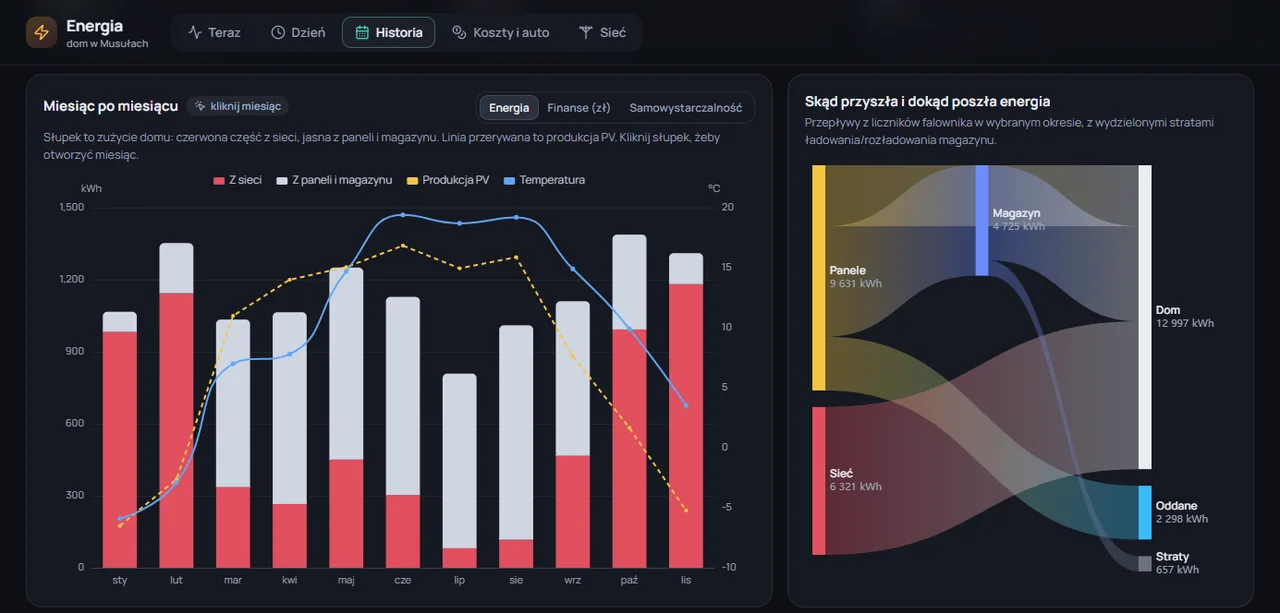
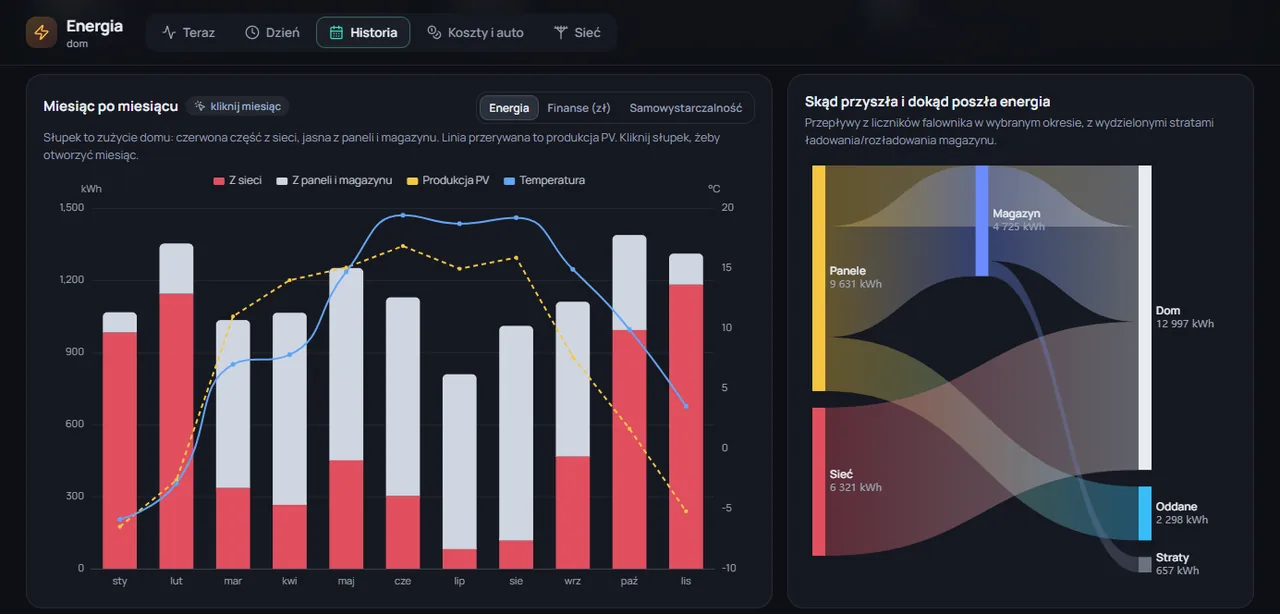
Projekty: galeria zrzutow Panelu energii w oknie podgladu
Kafelek panelu byl jedynym nieklikalnym na /projekty/. Teraz miniatura
i link "Zobacz zrzuty panelu" otwieraja okno (natywny <dialog>) z czterema
zrzutami: Teraz, Dzien, Historia i Koszty. Strzalki, klawisze, przesuwanie
palcem (nie przy powiekszeniu), zamykanie Esc i klikiem w tlo, powrot fokusu,
link do pelnego rozmiaru. Bez JS link prowadzi do pelnego zrzutu.
Na zrzutach nazwa miejscowosci zastapiona slowem "dom".

Changed region(s): [[0.125, 0.031, 0.5, 0.062], [0.0625, 0.062, 0.125, 0.093]]

diff --git a/src/assets/js/site.js b/src/assets/js/site.js
@@ -287,7 +287,114 @@
     });
   }
 
-  [initMenu, initPasekPostepu, initFiltrBloga, initEmail, initDonut, initFormularze, initSzukaj]
+  /* ---------- Galeria zrzutów w oknie (data-galeria na /projekty/) ----------
+     Kontener [data-galeria="Nazwa"] zawiera linki <a href=pełny_zrzut data-podpis data-szer data-wys>;
+     pierwszy jest widoczną miniaturą, reszta ukryta. [data-galeria-otworz="Nazwa"] otwiera od pierwszego.
+     Bez JS link prowadzi po prostu do pełnego zrzutu. */
+  function initGaleria() {
+    var galerie = document.querySelectorAll("[data-galeria]");
+    if (!galerie.length || typeof HTMLDialogElement !== "function") return;
+
+    var dlg = document.createElement("dialog");
+    dlg.className = "galeria-modal";
+    dlg.innerHTML =
+      '<div class="galeria-modal__wnetrze">' +
+      '<img class="galeria-modal__obraz" alt="">' +
+      '<p class="galeria-modal__podpis"></p>' +
+      '<p class="galeria-modal__licznik" aria-live="polite"></p>' +
+      '<button type="button" class="galeria-modal__btn galeria-modal__zamknij" aria-label="Zamknij podgląd">&times;</button>' +
+      '<button type="button" class="galeria-modal__btn galeria-modal__poprz" aria-label="Poprzedni zrzut">&lsaquo;</button>' +
+      '<button type="button" class="galeria-modal__btn galeria-modal__nast" aria-label="Następny zrzut">&rsaquo;</button>' +
+      "</div>";
+    document.body.appendChild(dlg);
+    var obraz = dlg.querySelector(".galeria-modal__obraz");
+    var podpis = dlg.querySelector(".galeria-modal__podpis");
+    var licznik = dlg.querySelector(".galeria-modal__licznik");
+    var zamknij = dlg.querySelector(".galeria-modal__zamknij");
+    var poprz = dlg.querySelector(".galeria-modal__poprz");
+    var nast = dlg.querySelector(".galeria-modal__nast");
+    var elementy = [], nr = 0, nazwa = "", powrot = null;
+
+    function pokaz(i) {
+      nr = (i + elementy.length) % elementy.length;
+      var a = elementy[nr];
+      if (a.dataset.szer) { obraz.width = +a.dataset.szer; obraz.height = +a.dataset.wys; }
+      obraz.src = a.getAttribute("href");
+      obraz.alt = a.dataset.podpis || "";
+      podpis.textContent = (a.dataset.podpis || "") + " ";
+      var pelny = document.createElement("a");
+      pelny.href = a.getAttribute("href");
+      pelny.target = "_blank";
+      pelny.rel = "noopener";
+      pelny.textContent = "Pełny rozmiar";
+      podpis.appendChild(pelny);
+      licznik.textContent = nazwa + ": zrzut " + (nr + 1) + " z " + elementy.length;
+      poprz.hidden = nast.hidden = elementy.length < 2;
+    }
+
+    function otworz(kontener, i) {
+      elementy = Array.prototype.slice.call(kontener.querySelectorAll("a[href]"));
+      if (!elementy.length) return;
+      nazwa = kontener.getAttribute("data-galeria") || "Zrzuty";
+      dlg.setAttribute("aria-label", nazwa + " - zrzuty ekranu");
+      powrot = document.activeElement;
+      pokaz(i > 0 ? i : 0);
+      document.documentElement.style.overflow = "hidden";
+      dlg.showModal();
+      (nast.hidden ? zamknij : nast).focus();
+    }
+
+    dlg.addEventListener("close", function () {
+      document.documentElement.style.overflow = "";
+      obraz.removeAttribute("src");
+      if (powrot && powrot.focus) powrot.focus({ preventScroll: true });
+    });
+    zamknij.addEventListener("click", function () { dlg.close(); });
+    poprz.addEventListener("click", function () { pokaz(nr - 1); });
+    nast.addEventListener("click", function () { pokaz(nr + 1); });
+    // klik w tło (poza obrazem, podpisem i przyciskami) zamyka
+    dlg.addEventListener("click", function (e) {
+      if (e.target === dlg || e.target.classList.contains("galeria-modal__wnetrze")) dlg.close();
+    });
+    dlg.addEventListener("keydown", function (e) {
+      if (e.key === "ArrowLeft") { e.preventDefault(); pokaz(nr - 1); }
+      else if (e.key === "ArrowRight") { e.preventDefault(); pokaz(nr + 1); }
+    });
+    // przesunięcie palcem; nie przy powiększeniu dwoma palcami
+    var startX = null, startY = 0;
+    dlg.addEventListener("touchstart", function (e) {
+      var zoom = window.visualViewport ? window.visualViewport.scale : 1;
+      startX = e.touches.length === 1 && zoom <= 1.05 ? e.touches[0].clientX : null;
+      startY = e.touches[0].clientY;
+    }, { passive: true });
+    dlg.addEventListener("touchend", function (e) {
+      if (startX === null || elementy.length < 2) return;
+      var dx = e.changedTouches[0].clientX - startX, dy = e.changedTouches[0].clientY - startY;
+      if (Math.abs(dx) > 50 && Math.abs(dx) > Math.abs(dy) * 1.5) pokaz(nr + (dx < 0 ? 1 : -1));
+      startX = null;
+    }, { passive: true });
+
+    function zModyfikatorem(e) { return e.ctrlKey || e.metaKey || e.shiftKey || e.button > 0; }
+    Array.prototype.forEach.call(galerie, function (kontener) {
+      kontener.addEventListener("click", function (e) {
+        var a = e.target.closest("a[href]");
+        if (!a || zModyfikatorem(e)) return;
+        e.preventDefault();
+        otworz(kontener, Array.prototype.indexOf.call(kontener.querySelectorAll("a[href]"), a));
+      });
+    });
+    Array.prototype.forEach.call(document.querySelectorAll("[data-galeria-otworz]"), function (link) {
+      link.addEventListener("click", function (e) {
+        var cel = link.getAttribute("data-galeria-otworz");
+        var kontener = Array.prototype.find.call(galerie, function (g) { return g.getAttribute("data-galeria") === cel; });
+        if (!kontener || zModyfikatorem(e)) return;
+        e.preventDefault();
+        otworz(kontener, 0);
+      });
+    });
+  }
+
+  [initMenu, initPasekPostepu, initFiltrBloga, initEmail, initDonut, initFormularze, initSzukaj, initGaleria]
     .forEach(function (init) {
       try { init(); } catch (err) {
         if (window.console && console.error) console.error("site.js: " + init.name, err);

diff --git a/src/assets/css/style.css b/src/assets/css/style.css
@@ -729,3 +729,28 @@ h1, h2, h3, h4 { font-family: var(--naglowki); text-wrap: pretty; }
   .stopka__wnetrze { padding-inline: 14px; }
   .stopka__linki { flex-wrap: wrap; gap: 8px 16px; }
 }
+
+/* ---------- Galeria zrzutów w oknie (projekty: Panel energii) ---------- */
+.projekt-foto--galeria { position: relative; cursor: zoom-in; }
+.projekt-foto__znaczek { position: absolute; right: 12px; bottom: 12px; padding: 5px 11px; border-radius: 999px; background: rgba(19, 26, 38, .78); color: #fff; font-size: 12.5px; font-weight: 600; pointer-events: none; }
+.galeria-modal { border: 0; padding: 0; margin: auto; background: rgba(8, 11, 17, .94); width: 100vw; height: 100dvh; max-width: 100vw; max-height: 100dvh; overscroll-behavior: contain; }
+.galeria-modal::backdrop { background: rgba(8, 11, 17, .6); }
+.galeria-modal__wnetrze { position: relative; height: 100%; display: flex; flex-direction: column; align-items: center; justify-content: center; gap: 12px; padding: max(56px, env(safe-area-inset-top)) clamp(12px, 6vw, 84px) max(20px, env(safe-area-inset-bottom)); }
+.galeria-modal__obraz { display: block; max-width: 100%; max-height: calc(100dvh - 170px); width: auto; height: auto; border-radius: 10px; box-shadow: 0 30px 80px rgba(0, 0, 0, .5); background: #0f1115; }
+.galeria-modal__podpis { color: #E6EAF2; font-size: 15px; line-height: 1.45; text-align: center; max-width: 760px; margin: 0; }
+.galeria-modal__podpis a { color: var(--akcent-jasny); white-space: nowrap; }
+.galeria-modal__licznik { color: #9AA6BC; font-size: 13px; margin: 0; }
+.galeria-modal__btn { position: absolute; width: 48px; height: 48px; border: 0; border-radius: 999px; background: rgba(255, 255, 255, .14); color: #fff; font-size: 26px; line-height: 1; cursor: pointer; display: grid; place-items: center; }
+.galeria-modal__btn:hover { background: rgba(255, 255, 255, .26); }
+.galeria-modal__btn:focus-visible { outline: 3px solid var(--akcent-jasny); outline-offset: 2px; }
+.galeria-modal__btn[hidden] { display: none; }
+.galeria-modal__zamknij { top: max(10px, env(safe-area-inset-top)); right: 12px; }
+.galeria-modal__poprz { left: 12px; top: 50%; transform: translateY(-50%); }
+.galeria-modal__nast { right: 12px; top: 50%; transform: translateY(-50%); }
+@media (max-width: 700px) {
+  .galeria-modal__wnetrze { padding-inline: 8px; padding-bottom: max(76px, env(safe-area-inset-bottom)); }
+  .galeria-modal__poprz, .galeria-modal__nast { top: auto; bottom: max(14px, env(safe-area-inset-bottom)); transform: none; }
+  .galeria-modal__poprz { left: calc(50% - 60px); }
+  .galeria-modal__nast { right: calc(50% - 60px); }
+  .galeria-modal__podpis { font-size: 14px; }
+}
